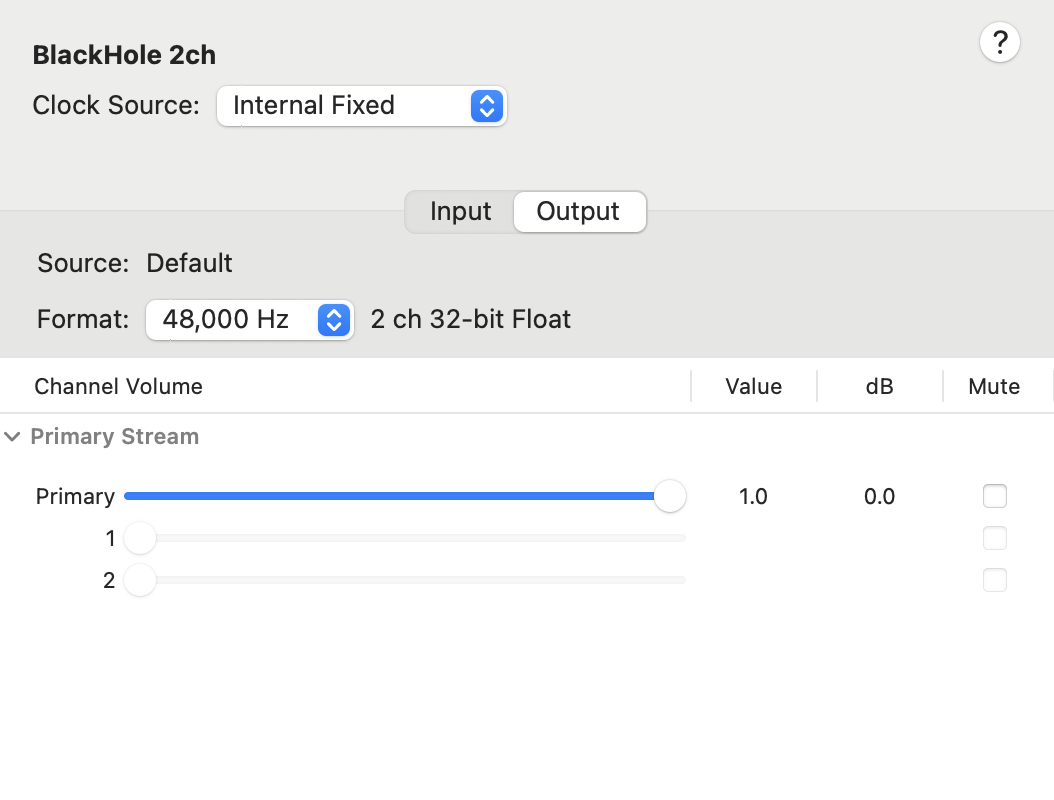
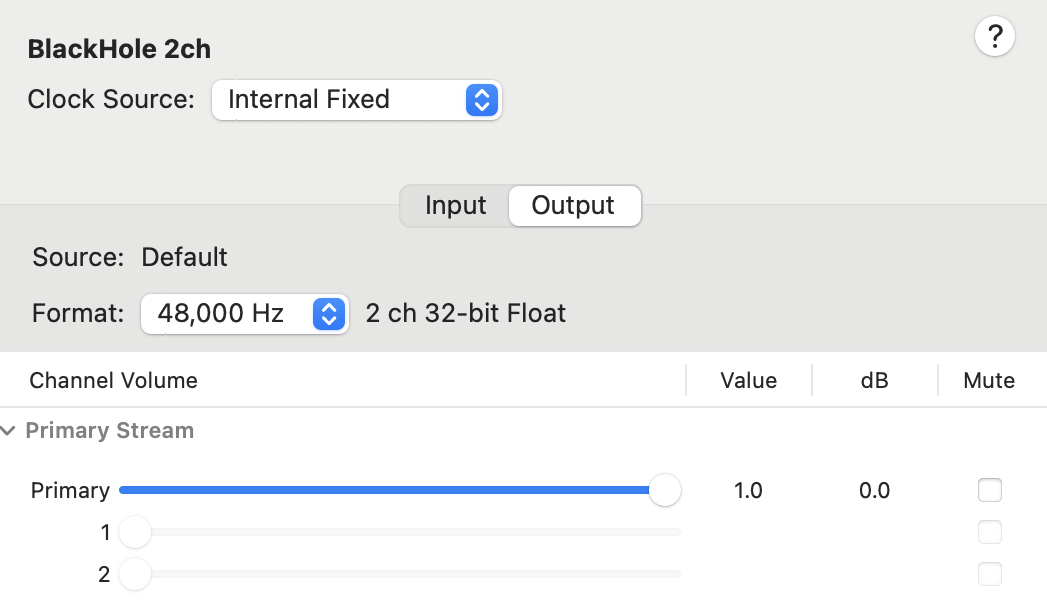
readme and image updates

diff --git a/README.md b/README.md
@@ -8,21 +8,20 @@ Please do the following sections in order shown.
 
 ### Install Blackhole 2ch For Mac: https://existential.audio/blackhole/
 
-- This is needed to send audio to the Python script for transcription
+- This is needed to send audio to whisper for transcription
 
 ### Multi-Output Device in Audio MIDI
 
 1. Click the `+` icon in the bottom left and choose the option with 'Multi-Ouput Device'
 2. Configure the Multi-Output Device to look this:
-![Audio MIDI Multi-Output Device](./images/audiomidi.png)
+<img src="./images/audiomidi.png" width="80%" alt="Audio MIDI Multi-Output Device">
     - If there are more devices, check it and enable drift correction
 
 3. Go to `Blackhole 2ch` in Audio MIDI, and make sure Output format is 48,000 Hz and Primary value is 1.0:
-![Audio MIDI Blackhole](./images/audiomidiblackhole.png)
+<img src="./images/audiomidiblackhole.png" width="89%" alt="Audio MIDI Blackhole">
 
-> [!IMPORTANT] 
-> Now every time you want audio to go to both speakers and Blackhole, just change the Sound output:
-![Change sound output](./images/audiooutput.png)
+4. Now every time you want audio to go to both speakers and Blackhole, just change the Sound output to Multi-Output Device:
+<img src="./images/audiooutput.png" width="60%" alt="Change sound output">
 
 > [!WARNING] 
 > In Multi-Ouput Device output, the volume will NOT be able to be changed. You must change the volume of the speaker first before switching to Multi-Ouput Device.
